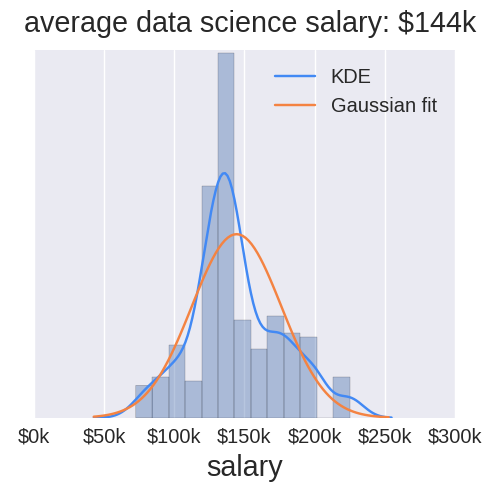
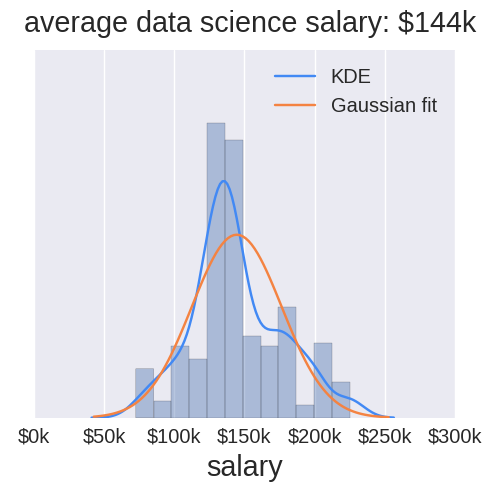
FEAT: finish up showing plots

Changed region(s): [[0.27, 0.09, 0.72, 0.84]]

diff --git a/app/static/js/app.js b/app/static/js/app.js
@@ -44,14 +44,16 @@ var get_job_stats = function(search_term) {
         var skills_script = json_data['script'];
         eval(skills_script);
         var clean_search = json_data['search_term']
-        var salary_plot = 'img/' + clean_search + '_salary_dist.png';
+        var salary_plot = json_data['salary_file'];
         // make it refresh with each date
-        $('#search_results2').append('<img src="' + salary_plot + '?v=<?php echo Date(\'Y.m.d.G.i.s\')?>" />');
+        var shebang = new Date().getTime();
+        console.log(shebang);
+        console.log('<img src="' + salary_plot + '?' + shebang + ' />');
+        $('#search_results2').append('<img src="' + salary_plot + '?' + shebang + '" />');
       }
 
       var offset = 20; //Offset of 20px
 
-      console.log('wtf?!?!');
       $('html, body').animate({
           scrollTop: $("#results").offset().top + offset
       }, 1000);

diff --git a/app/static/search_jobs.html b/app/static/search_jobs.html
@@ -102,8 +102,14 @@
             <div class="row">
               <div class="col-lg-6 text-center" id="search_results1">
               </div>
-                <div class="col-lg-6 text-center" id="search_results2">
-                </div>
+              <div class="col-lg-6 text-center" id="search_results2">
+              </div>
+            </div>
+            <div class="row">
+              <div class="col-lg-6 text-center" id="skills_list">
+              </div>
+              <div class="col-lg-6 text-center" id="salary_range">
+              </div>
             </div>
             <hr class="light">
         </div>

diff --git a/app/app.py b/app/app.py
@@ -24,7 +24,7 @@ IP_COLL_NAME = 'user_tracking'
 @app.route('/')
 def index():
     user_id = request.cookies.get('dice_search')
-    print 'cookie:', user_id
+    # print 'cookie:', user_id
     if user_id is None:
         return app.send_static_file('index.html')
 
@@ -33,7 +33,7 @@ def index():
 
 @app.route('/get_job_stats', methods=['POST'])
 def get_words():
-    print request.form
+    # print request.form
     search_term = request.form.getlist('job')[0]
     hw = request.form.getlist('hw[]')
     hw[0] = int(str(hw[0]))
@@ -50,13 +50,15 @@ def get_words():
         coll.insert(insert_dict)
         resp = flask.Response(json.dumps({'updating db':True}))
     else:
-        ca.plot_salary_dist(search_term=search_term, hw=hw)
+        filename = ca.plot_salary_dist(search_term=search_term, hw=hw)
         script, div = ca.plot_top_skills(search_term=search_term, hw=hw)
         jobs_dict = {}
         jobs_dict['script'] = script.encode('ascii', 'ignore')
         jobs_dict['div'] = div.encode('ascii', 'ignore')
         jobs_dict['jobs'] = jobs
         jobs_dict['search_term'] = re.sub('\s', '_', ca.clean_search_term(search_term))
+        jobs_dict['salary_file'] = filename
+        print filename
         resp = flask.Response(json.dumps(jobs_dict))
     resp.headers['Access-Control-Allow-Origin'] = '*'
     return resp
@@ -66,7 +68,7 @@ def log_info():
     log_dict = request.form.to_dict()
     log_dict = ca.convert(log_dict)
     log_dict['datetime'] = datetime.now()
-    print log_dict
+    # print log_dict
     client = MongoClient()
     db = client[DB_NAME]
     coll = db[IP_COLL_NAME]

diff --git a/dice_code/collect_api.py b/dice_code/collect_api.py
@@ -823,7 +823,6 @@ def plot_salary_dist(sal_dict=None, key='full_time', search_term='data scientist
     if hw is not None:
         # scale factor for screen width
         scale_factor = 500 / 1366. * hw[1] / 100
-        print 'scale_factor:', scale_factor
     search_term = clean_search_term(search_term)
     if sal_dict is None:
         salary_dict = get_salaries_mongo(search_term=search_term)
@@ -845,6 +844,10 @@ def plot_salary_dist(sal_dict=None, key='full_time', search_term='data scientist
     scaled_norm = unscaled_norm / max(unscaled_norm)
     # abondon matplotlib in favor of seaborn
     # plt.hist(inliers, bins=20, normed=True)
+    # adjust fontsize for screen size
+    rc_dict = {'font.size':int(8*hw[1]/1366.)}
+    # rcParams['] = 'medium'
+    plt.rcParams.update(rc_dict)
     if hw is not None:
         # 80 dpi default, 500/1366 ratio by trial and error
         f = plt.figure(figsize=(scale_factor, scale_factor))
@@ -864,7 +867,9 @@ def plot_salary_dist(sal_dict=None, key='full_time', search_term='data scientist
     if live:
         plt.show()
     else:
-        plt.savefig('app/static/img/' + re.sub('\s', '_', search_term) + '_salary_dist.png')
+        filename = 'app/static/img/' + re.sub('\s', '_', search_term) + '_scale_' + str(scale_factor) + '_salary_dist.png'
+        plt.savefig(filename)
+        return filename[11:]
 
     # trying to use bokeh for an interactive chart, but not currently worth it
     # from bokeh.charts import Histogram
